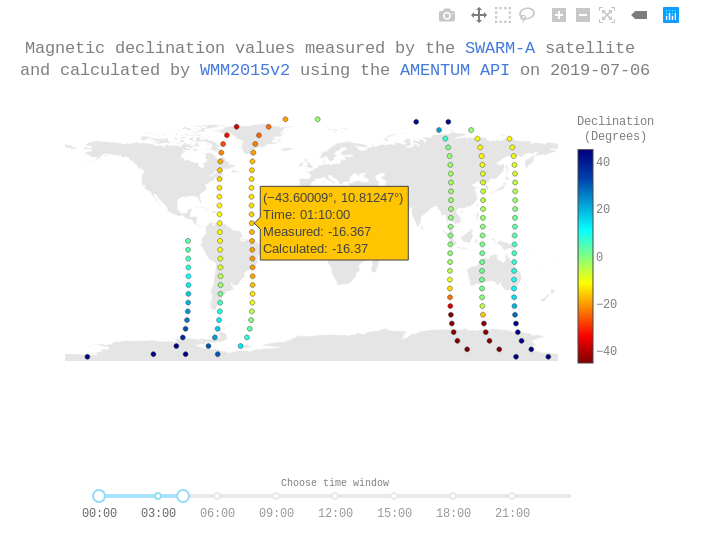
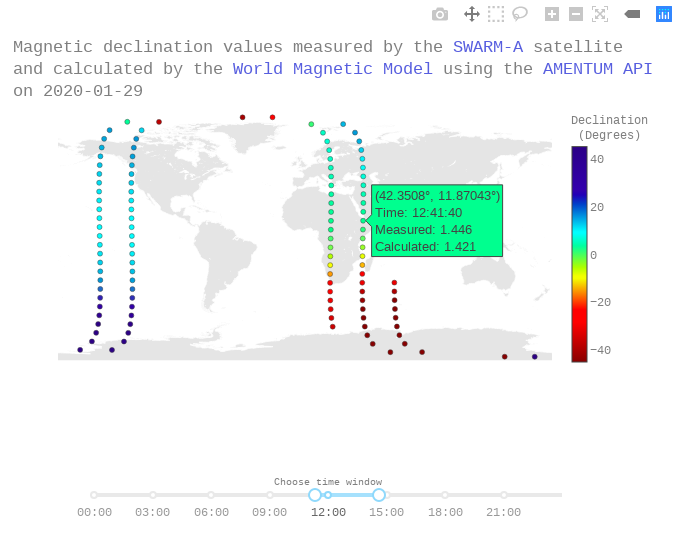
Validation study for WMM2020

diff --git a/swarm/analysis.py b/swarm/analysis.py
@@ -36,6 +36,7 @@ df = pd.DataFrame(
         'time', 'decimal_year', 'latitude', 'longitude', 'decl_swarm', 'decl_api'])
 
 hostname = "https://globalmagnet.amentum.space/api/calculate_magnetic_field"
+hostname = "http://localhost:5000/api/calculate_magnetic_field"
 
 earth_radius = 6371.0 # [km] assumed by pysatMagVect
 
@@ -80,10 +81,10 @@ for i, timestamp in enumerate(cdf['Timestamp']):
     try: 
         response = requests.get(hostname, params=payload)
         response.raise_for_status()
-    except requests.exceptions.RequestException as e:
+    except requests.exceptions.HTTPError as e:
         print(response.json())
         print(e.args)
-    except requests.exceptions.HTTPError as e:
+    except requests.exceptions.RequestException as e:
         print(response.json())
         print(e.args)
 
@@ -142,8 +143,8 @@ layout = go.Layout(
     title=go.layout.Title(
         text="Magnetic declination values measured by the \
 <a href='https://earth.esa.int/web/guest/swarm/data-access'>SWARM-A</a> satellite <br>\
-and calculated by <a href='https://www.ngdc.noaa.gov/geomag/WMM/'>WMM2015v2</a> \
-using the <a href='https://amentum.space'>AMENTUM API</a> \
+and calculated by the <a href='https://www.ngdc.noaa.gov/geomag/WMM/'>World Magnetic Model</a> \
+using the <a href='https://amentum.space'>AMENTUM API</a> <br>\
 on " + timestamp.strftime("%Y-%m-%d")),
     font=dict(family='Courier New, monospace', size=12, color='#7f7f7f'),
     geo=go.layout.Geo(

diff --git a/observatory/README.md b/observatory/README.md
@@ -48,4 +48,4 @@ Figure 1: Screenshot of interactive plot produced by the Python script.
 The results presented in this document rely on data collected at magnetic observatories. We thank the national institutes that support them and INTERMAGNET for promoting high standards of magnetic observatory practice (www.intermagnet.org).
 
 
-Copyright 2019 [Amentum Aerospace](https://amentum.space), Australia
+Copyright 2020 [Amentum Aerospace](https://amentum.space), Australia

diff --git a/swarm/README.md b/swarm/README.md
@@ -56,4 +56,4 @@ Figure 1: A screenshot of the interactive python app showing the orbital path of
 Data provided by the European Space Agency.
 
 
-Copyright 2019 [Amentum Aerospace](https://amentum.space), Australia
+Copyright 2020 [Amentum Aerospace](https://amentum.space), Australia
